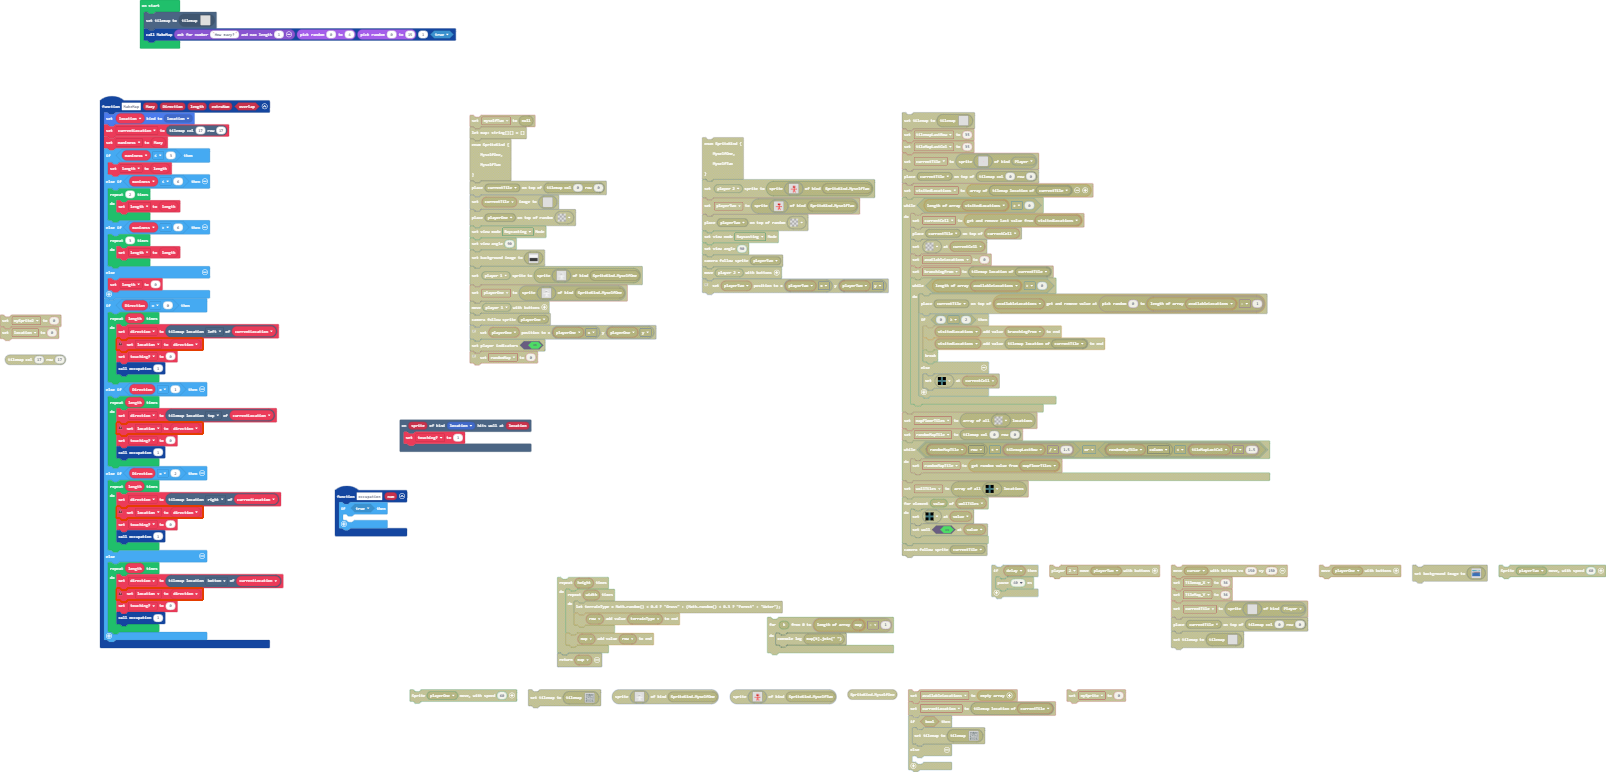
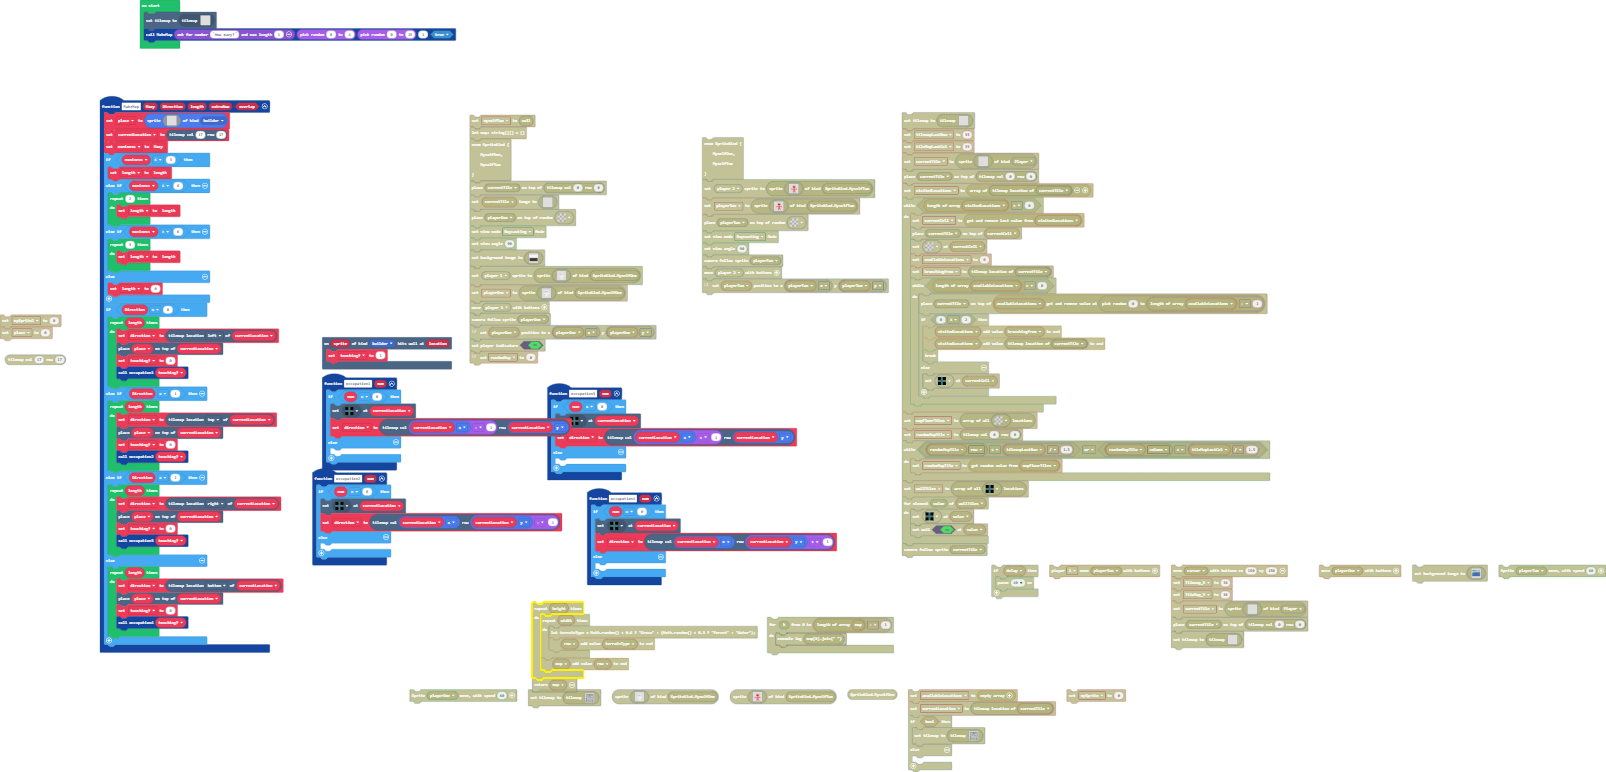
Update main.blocks, main.ts, tilemap.g.jres, tilemap.g.ts

Changed region(s): [[0.0623, 0.1244, 0.5293, 0.9016]]

diff --git a/main.ts b/main.ts
@@ -1,16 +1,36 @@
 namespace SpriteKind {
-    export const location = SpriteKind.create()
+    export const builder = SpriteKind.create()
 }
-function occupation (num: number) {
-    if (true) {
+function occupation3 (num: number) {
+    if (num == 0) {
+        tiles.setTileAt(currentLocation, assets.tile`myTile`)
+        direction = tiles.getTileLocation(currentLocation.x + 1, currentLocation.y)
+    } else {
     	
     }
 }
-scene.onHitWall(SpriteKind.location, function (sprite, location) {
+scene.onHitWall(SpriteKind.builder, function (sprite, location) {
     touching = 1
 })
 function MakeMap (Mazy: number, Direction: number, length: number, extraNum: number, overlap: boolean) {
-    location.setKind(SpriteKind.location)
+    place = sprites.create(img`
+        . . . . . . . . . . . . . . . . 
+        . . . . . . . . . . . . . . . . 
+        . . . . . . . . . . . . . . . . 
+        . . . . . . . . . . . . . . . . 
+        . . . . . . . . . . . . . . . . 
+        . . . . . . . . . . . . . . . . 
+        . . . . . . . . . . . . . . . . 
+        . . . . . . . . . . . . . . . . 
+        . . . . . . . . . . . . . . . . 
+        . . . . . . . . . . . . . . . . 
+        . . . . . . . . . . . . . . . . 
+        . . . . . . . . . . . . . . . . 
+        . . . . . . . . . . . . . . . . 
+        . . . . . . . . . . . . . . . . 
+        . . . . . . . . . . . . . . . . 
+        . . . . . . . . . . . . . . . . 
+        `, SpriteKind.builder)
     currentLocation = tiles.getTileLocation(17, 17)
     maniness = Mazy
     if (maniness <= 3) {
@@ -29,38 +49,62 @@ function MakeMap (Mazy: number, Direction: number, length: number, extraNum: num
     if (Direction == 0) {
         for (let index = 0; index < length; index++) {
             direction = currentLocation.getNeighboringLocation(CollisionDirection.Left)
-            location = direction
+            tiles.placeOnTile(place, currentLocation)
             touching = 0
-            occupation(1)
+            occupation1(touching)
         }
     } else if (Direction == 1) {
         for (let index = 0; index < length; index++) {
             direction = currentLocation.getNeighboringLocation(CollisionDirection.Top)
-            location = direction
+            tiles.placeOnTile(place, currentLocation)
             touching = 0
-            occupation(1)
+            occupation2(touching)
         }
     } else if (Direction == 2) {
         for (let index = 0; index < length; index++) {
             direction = currentLocation.getNeighboringLocation(CollisionDirection.Right)
-            location = direction
+            tiles.placeOnTile(place, currentLocation)
             touching = 0
-            occupation(1)
+            occupation3(touching)
         }
     } else {
         for (let index = 0; index < length; index++) {
             direction = currentLocation.getNeighboringLocation(CollisionDirection.Bottom)
-            location = direction
+            tiles.placeOnTile(place, currentLocation)
             touching = 0
-            occupation(1)
+            occupation4(touching)
         }
     }
 }
-let direction: tiles.Location = null
+function occupation1 (num: number) {
+    if (num == 0) {
+        tiles.setTileAt(currentLocation, assets.tile`myTile`)
+        direction = tiles.getTileLocation(currentLocation.x - 1, currentLocation.y)
+    } else {
+    	
+    }
+}
+function occupation4 (num: number) {
+    if (num == 0) {
+        tiles.setTileAt(currentLocation, assets.tile`myTile`)
+        direction = tiles.getTileLocation(currentLocation.x, currentLocation.y + 1)
+    } else {
+    	
+    }
+}
+function occupation2 (num: number) {
+    if (num == 0) {
+        tiles.setTileAt(currentLocation, assets.tile`myTile`)
+        direction = tiles.getTileLocation(currentLocation.x, currentLocation.y - 1)
+    } else {
+    	
+    }
+}
 let length = 0
 let maniness = 0
-let currentLocation: tiles.Location = null
-let location: Sprite = null
+let place: Sprite = null
 let touching = 0
+let direction: tiles.Location = null
+let currentLocation: tiles.Location = null
 tiles.setCurrentTilemap(tilemap`level17`)
 MakeMap(game.askForNumber("How mazy?", 1), randint(0, 4), randint(0, 15), 1, true)

diff --git a/tilemap.g.ts b/tilemap.g.ts
@@ -413,6 +413,25 @@ namespace myTiles {
 ...................................
 ...................................
 `, [myTiles.transparency16], TileScale.Sixteen);
+            case "level18":
+            case "level18":return tiles.createTilemap(hex`1000100000000000000000000000000000000000000000000000000000000000000000000000000000000000000000000000000000000000000000000000000000000000000000000000000000000000000000000000000000000000000000000000000000000000000000000000000000000000000000000000000000000000000000000000000000000000000000000000000000000000000000000000000000000000000000000000000000000000000000000000000000000000000000000000000000000000000000000000000000000000000000000000000000000000000000000000000000000000000000000000000000000000000000000000000000000000`, img`
+. . . . . . . . . . . . . . . . 
+. . . . . . . . . . . . . . . . 
+. . . . . . . . . . . . . . . . 
+. . . . . . . . . . . . . . . . 
+. . . . . . . . . . . . . . . . 
+. . . . . . . . . . . . . . . . 
+. . . . . . . . . . . . . . . . 
+. . . . . . . . . . . . . . . . 
+. . . . . . . . . . . . . . . . 
+. . . . . . . . . . . . . . . . 
+. . . . . . . . . . . . . . . . 
+. . . . . . . . . . . . . . . . 
+. . . . . . . . . . . . . . . . 
+. . . . . . . . . . . . . . . . 
+. . . . . . . . . . . . . . . . 
+. . . . . . . . . . . . . . . . 
+`, [myTiles.transparency16], TileScale.Sixteen);
         }
         return null;
     })
